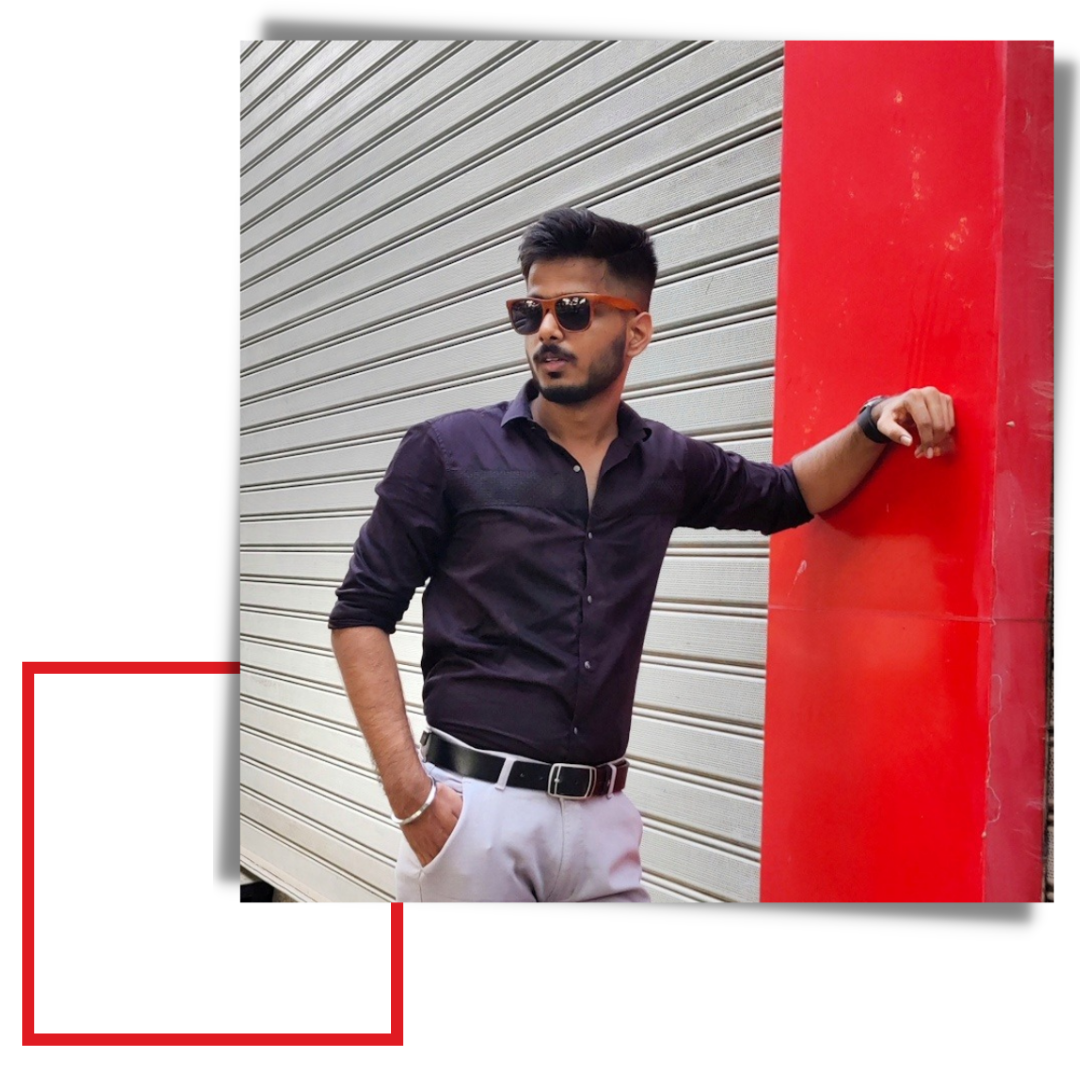
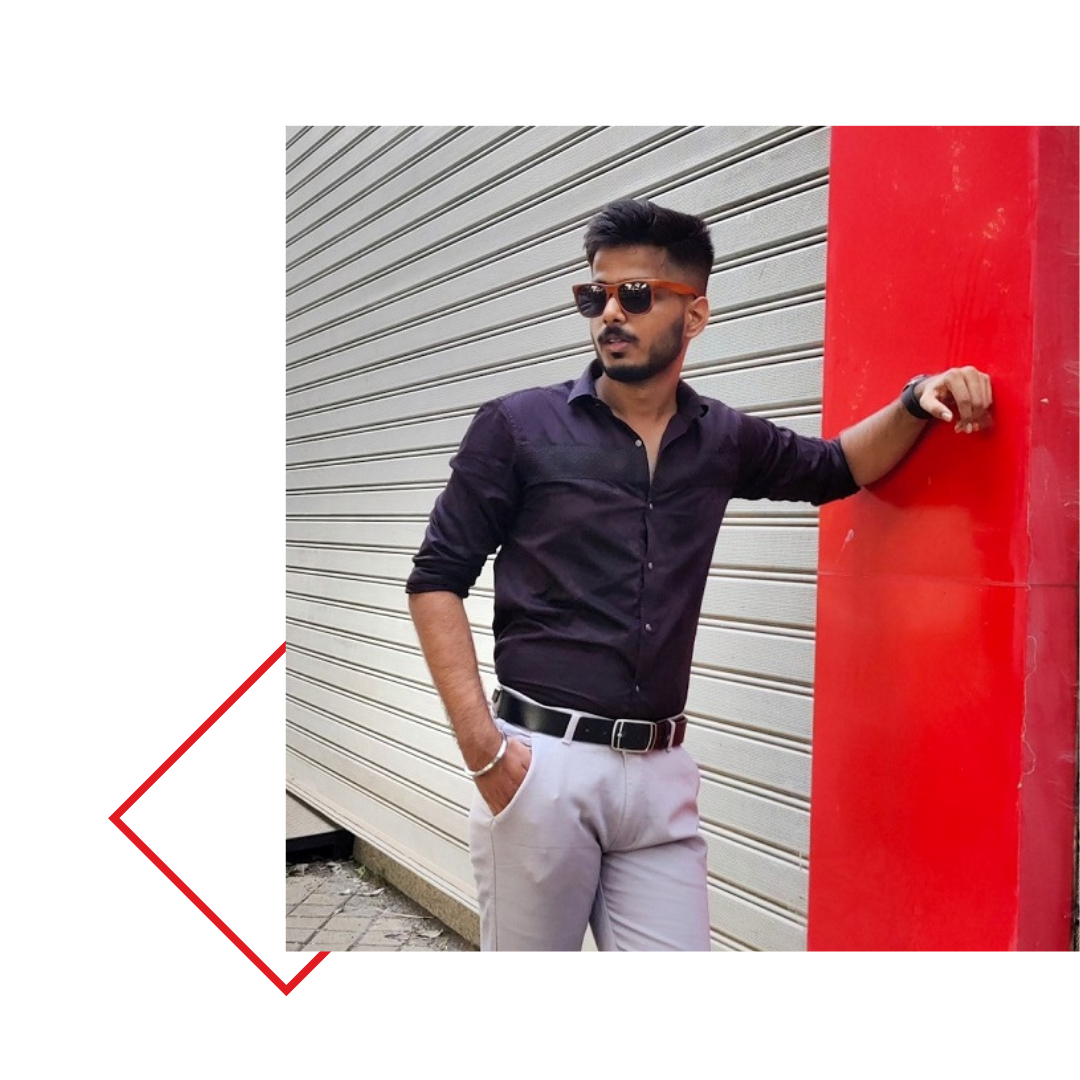
image changed in about page

diff --git a/mysite/templates/Aboutme.html b/mysite/templates/Aboutme.html
@@ -17,6 +17,7 @@ Amar khamkar
 {% block body %}
 <style>
 
+
 .img-fluid {
   
   opacity: 0.8;
@@ -28,32 +29,32 @@ h1{
   .bgimg {
     width: 100vh;
     height: 110vh;
-    opacity: 0.5;
 }
 }
 @media only screen and (max-width: 767px) and (min-width: 485px) {
   .bgimg {
     width: 80vh;
     height: 88vh;
-    margin-left: 50px;
   }
   h1{
     font-size: 25px;
   }
 }
-@media only screen and (max-width: 484px) and (min-width: 370px) {
+@media only screen and (max-width: 484px) and (min-width: 375px) {
   .bgimg {
     width: 75vh;
     height: 73vh;
+    margin-left: -40px;
   }
     h1{
       font-size: 25px;
     }
   }
-@media only screen and (max-width: 370px) and (min-width: 250px) {
+@media only screen and (max-width: 374px) and (min-width: 250px) {
   .bgimg {
     width: 60vh;
     height: 58vh;
+    margin-left: -40px;
   }
     h1{
       font-size: 20px;
@@ -61,39 +62,39 @@ h1{
 }
 
 #hero .hero-content {
-  height: 80vh;
-  text-align: left;
-  width: 100%;
-  display: flex;
-  justify-content: center;
-  flex-direction: column;
+height: 80vh;
+text-align: left;
+width: 100%;
+display: flex;
+justify-content: center;
+flex-direction: column;
 }
 
 .hero-content h1 {
-  font-weight: 700;
-  margin-bottom: 10px;
-  text-transform: uppercase;
-  color: #fff;
+font-weight: 700;
+margin-bottom: 10px;
+text-transform: uppercase;
+color: #fff;
 }
 
 .hero-content p {
-  font-size: 13px;
-  letter-spacing: 3px;
-  margin-top: 0;
-  margin-bottom: 30px;
-  text-transform: capitalize;
-  color: #fff;
-  font-weight: 500;
+font-size: 13px;
+letter-spacing: 3px;
+margin-top: 0;
+margin-bottom: 30px;
+text-transform: capitalize;
+color: #fff;
+font-weight: 500;
 }
 
 .hero-content .list-social li {
-  float: left;
-  margin-right: 20px;
+float: left;
+margin-right: 20px;
 }
 
 .hero-content .list-social li i {
-  color: #fff;
-  font-size: 15px;
+color: #fff;
+font-size: 15px;
 }
 </style>
 <div class="container-fluid">

diff --git a/mysite/templates/main_index.html b/mysite/templates/main_index.html
@@ -310,7 +310,7 @@ a{
     </div>
   </nav>
   <div class="alert alert-primary my-2 alert-dismissible " id="AlertS" style="display: none;" role="alert">
-    Do <a class ="Supportt alert-link" href="/Supportme/">Support Me </a> visitor(only if you find it helpful) by donating some amount,it takes a lot of efforts to make these tools.
+    Do <a class ="Supportt alert-link" href="/Supportme/">Support Me </a> visitor(only if you find it helpful) by donating any amount u want,it takes a lot of efforts to make these tools.
     <button type="button" class="close" id="closeS" data-dismiss="alert" aria-label="Close">
       <span aria-hidden="true">&times;</span>
     </button>
